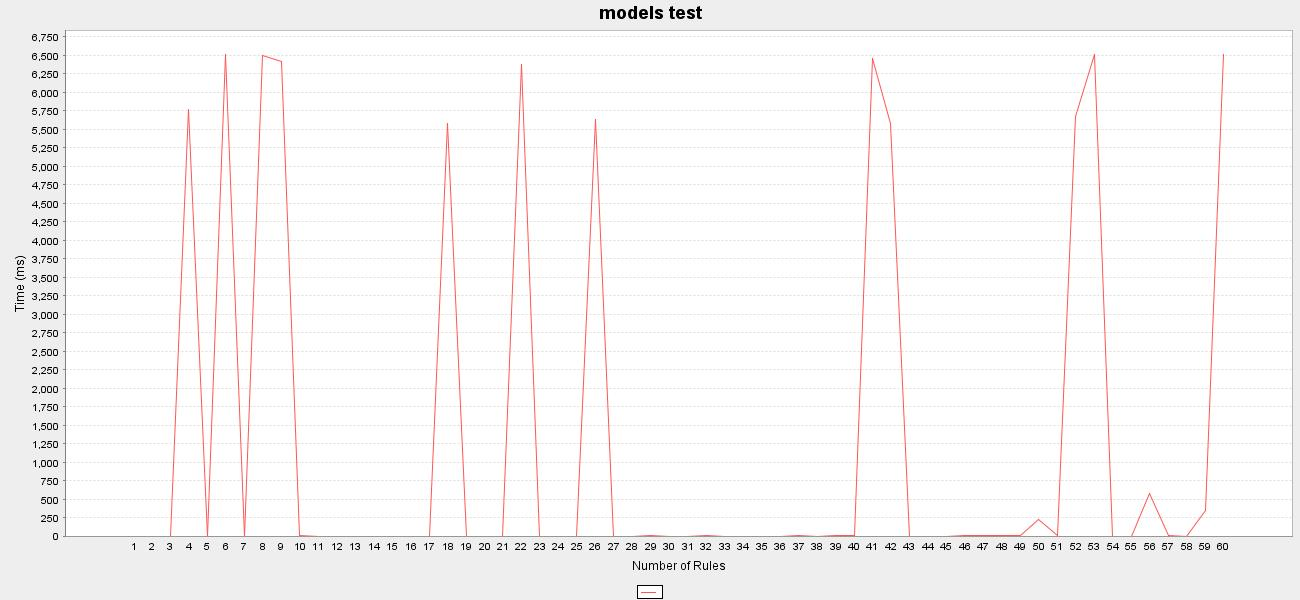
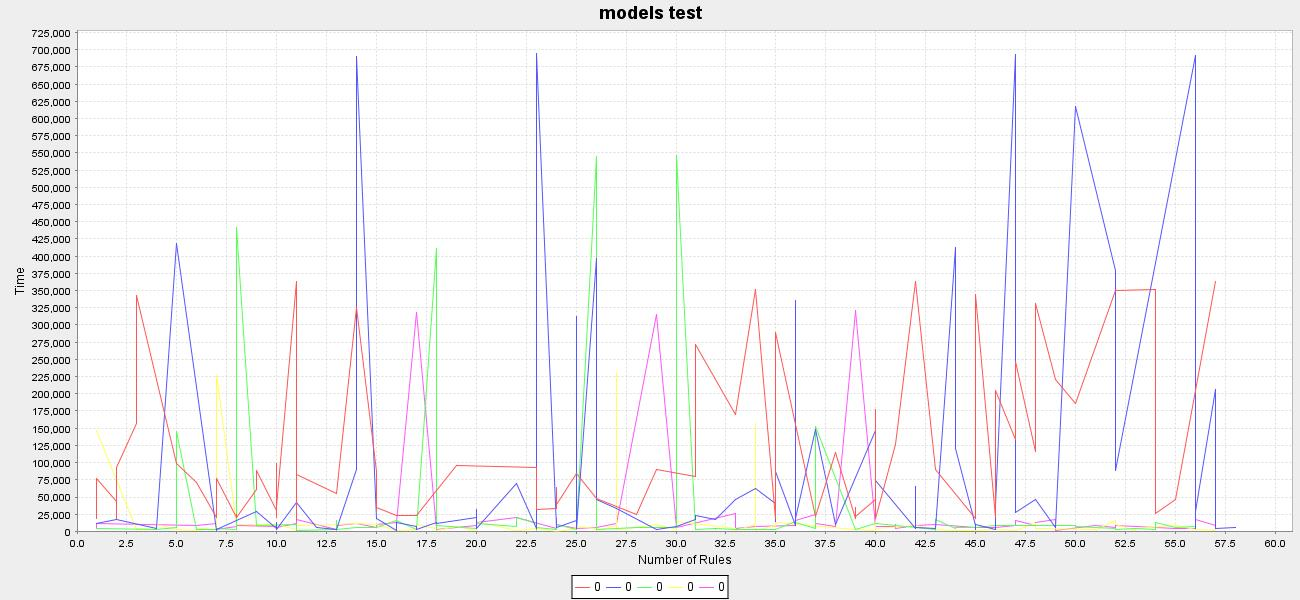
- vytvaranie grafu presunute do samostatnej triedy - zatial skusanych 5 iteracii generovania programov | zrejme bug pri firingu (niektore programy neskoncia vypocet)

diff --git a/src/main/NajmensiModel2.java b/src/main/NajmensiModel2.java
@@ -9,26 +9,14 @@ import core.Program;
 import utilities.ProgramGenerator;
 import utilities.ProgramParser;
 import core.Router;
-import java.awt.Color;
-import java.awt.Graphics2D;
-import java.awt.image.BufferedImage;
-import java.io.File;
-import java.io.IOException;
 import java.util.ArrayList;
-import java.util.Comparator;
 import java.util.List;
 import java.util.concurrent.ExecutorService;
 import java.util.concurrent.Executors;
 import java.util.concurrent.TimeUnit;
 import java.util.stream.Collectors;
-import java.util.stream.Stream;
-import javax.swing.JFrame;
 import messages.InitMessage;
-import org.jfree.chart.ChartFactory;
-import org.jfree.chart.ChartUtilities;
-import org.jfree.chart.JFreeChart;
-import org.jfree.chart.plot.PlotOrientation;
-import org.jfree.data.category.DefaultCategoryDataset;
+import utilities.GraphRenderer;
 
 /**
  *
@@ -36,81 +24,61 @@ import org.jfree.data.category.DefaultCategoryDataset;
  */
 public class NajmensiModel2 {
 
-    static Router router = new Router();
-
-    public static void createGraph(List<Long> xValues, List<Integer> yValues) throws IOException {
-        DefaultCategoryDataset dataset = new DefaultCategoryDataset();
-        for (int i = 0; i < xValues.size(); i++) {
-            System.out.println("[" + xValues.get(i) + ", " + yValues.get(i) + "]");
-            dataset.addValue(xValues.get(i), "", yValues.get(i));
-        }
-
-        JFreeChart lineChart = ChartFactory.createLineChart(
-                "models test",
-                "Number of Rules", "Time (ms)",
-                dataset,
-                PlotOrientation.VERTICAL,
-                true, true, false
-        );
-
-        int width = 1300;
-        /* Width of the image */
-        int height = 600;
-        /* Height of the image */
-        File chartFile = new File("LineChart.jpeg");
-        ChartUtilities.saveChartAsJPEG(chartFile, lineChart, width, height);
-    }
+    static Router router;
 
     /**
      * @param args the command line arguments
      */
     public static void main(String[] args) {
-        int programsCount = 500;
+        int programsCount = 80;
         String[] baseLits = "a,b,c,d,e,f".split(",");
         int maxBodySize = 10;
         int maxRulesCount = 60;
 
-        List<String> generated = ProgramGenerator.generate(programsCount, baseLits, maxRulesCount, maxBodySize);
-        List<Program> programs = new ArrayList<>();
+        GraphRenderer grenderer = new GraphRenderer();
+
+        for (int i = 0; i < 5; i++) {
+            router = new Router();
+            List<String> generated = ProgramGenerator.generate(programsCount, baseLits, maxRulesCount, maxBodySize);
+            List<Program> programs = new ArrayList<>();
 
 //        try (Stream<String> stream = Files.lines(Paths.get("rules1.txt"))) {
 //            programs = ProgramParser.parseStream(stream);
 //        } catch (IOException ex) {
 //            Logger.getLogger(NajmensiModel2.class.getName()).log(Level.SEVERE, null, ex);
 //        }
-        programs = ProgramParser.parseStream(generated.stream());
+            programs = ProgramParser.parseStream(generated.stream());
 
-        ExecutorService executor = Executors.newCachedThreadPool();
-        programs.stream().forEach((Program p) -> {
-            p.setRouter(router);
-            router.addProgram(p);
-            executor.execute(p);
-        });
+            ExecutorService executor = Executors.newCachedThreadPool();
+            programs.stream().forEach((Program p) -> {
+                p.setRouter(router);
+                router.addProgram(p);
+                executor.execute(p);
+            });
 
-        router.sendMessage(programs.get(0).getLabel(), new InitMessage());
-        executor.shutdown();
+            router.sendMessage(programs.get(0).getLabel(), new InitMessage());
+            executor.shutdown();
 
-        try {
-            executor.awaitTermination(Long.MAX_VALUE, TimeUnit.NANOSECONDS);
-        } catch (InterruptedException e) {
+            try {
+                executor.awaitTermination(Long.MAX_VALUE, TimeUnit.NANOSECONDS);
+            } catch (InterruptedException e) {
+            }
+
+            List<Long> time = programs.stream()
+                    .filter(p -> p.isParticipationConfirmed())
+                    .sorted((p1, p2) -> Integer.compare(p1.getRules().size(), p2.getRules().size()))
+                    .map(p -> (p.getEndTime() - p.getStartTime()) / 1000) // microseconds
+                    .collect(Collectors.toList());
+
+            List<Integer> rulesCount = programs.stream()
+                    .filter(p -> p.isParticipationConfirmed())
+                    .sorted((p1, p2) -> Integer.compare(p1.getRules().size(), p2.getRules().size()))
+                    .map(p -> p.getRules().size())
+                    .collect(Collectors.toList());
+
+            grenderer.addValues(rulesCount, time);
         }
-
-        List<Long> time = programs.stream()
-                .filter(p -> p.isParticipationConfirmed())
-                .sorted((p1, p2) -> Integer.compare(p1.getRules().size(), p2.getRules().size()))
-                .map(p -> p.getEndTime() - p.getStartTime())
-                .collect(Collectors.toList());
-
-        List<Integer> rulesCount = programs.stream()
-                .filter(p -> p.isParticipationConfirmed())
-                .sorted((p1, p2) -> Integer.compare(p1.getRules().size(), p2.getRules().size()))
-                .map(p -> p.getRules().size())
-                .collect(Collectors.toList());
-
-        try {
-            createGraph(time, rulesCount);
-        } catch (Exception e) {
-        }
+        grenderer.createGraph();
     }
 
 }

diff --git a/src/phases/PhaseTwo.java b/src/phases/PhaseTwo.java
@@ -11,8 +11,10 @@ import core.Rule;
 import java.util.ArrayList;
 import java.util.HashMap;
 import java.util.HashSet;
+import java.util.List;
 import java.util.Map;
 import java.util.Set;
+import java.util.stream.Collectors;
 import messages.FireRequestMessage;
 import messages.FireResponseMessage;
 import messages.FiringEndedMessage;
@@ -62,9 +64,10 @@ public class PhaseTwo implements Phase {
 
     private void processFiringEnded(Object message) {
         String sender = ((FiringEndedMessage) message).getSenderLabel();
+
         if (!participatedFiringEnded.get(sender)) {
             participatedFiringEnded.put(sender, Boolean.TRUE);
-
+            
             // test  ci skoncili vsetci
             if (!participatedFiringEnded.containsValue(Boolean.FALSE)) {
 //                TODO VYMYSLET INAK
@@ -77,11 +80,6 @@ public class PhaseTwo implements Phase {
         FireRequestMessage requestMessage = (FireRequestMessage) message;
         Set<Literal> obtainedLiterals = requestMessage.getLits();
         String sender = requestMessage.getSenderLabel();
-
-//        meranie casu pre testovacie ucely
-        if (sender.equals(program.getLabel())) {
-            program.setStartTime(System.currentTimeMillis());
-        }
         
         program.getSmallestModel().addAll(obtainedLiterals);
         fire(requestMessage);
@@ -98,7 +96,8 @@ public class PhaseTwo implements Phase {
 
 //        response som si poslal sam sebe
         if (senderLabel.equals(program.getLabel())) {
-            program.setEndTime(System.currentTimeMillis());
+//            program.setEndTime(System.currentTimeMillis());
+            program.setEndTime(System.nanoTime());
             
             sendMessage(program.getInitialProgramLabel(), new FiringEndedMessage(program.getLabel()));
         } else {

diff --git a/src/utilities/GraphRenderer.java b/src/utilities/GraphRenderer.java
@@ -1,0 +1,59 @@
+/*
+ * To change this license header, choose License Headers in Project Properties.
+ * To change this template file, choose Tools | Templates
+ * and open the template in the editor.
+ */
+package utilities;
+
+import java.io.File;
+import java.io.IOException;
+import java.util.List;
+import org.jfree.chart.ChartFactory;
+import org.jfree.chart.ChartUtilities;
+import org.jfree.chart.JFreeChart;
+import org.jfree.chart.plot.PlotOrientation;
+import org.jfree.chart.plot.XYPlot;
+import org.jfree.data.xy.XYSeries;
+import org.jfree.data.xy.XYSeriesCollection;
+
+/**
+ *
+ * @author martin
+ */
+public class GraphRenderer {
+
+    XYSeriesCollection dataset = new XYSeriesCollection();
+
+    public void addValues(List<Integer> xValues, List<Long> yValues) {
+        final XYSeries s = new XYSeries(0);
+        for (int i = 0; i < xValues.size(); i++) {
+//            System.out.println("[" + xValues.get(i) + ", " + yValues.get(i) + "]");
+//            dataset.addValue(xValues.get(i), "", yValues.get(i));
+            s.add(xValues.get(i), yValues.get(i));
+        }
+
+        dataset.addSeries(s);
+    }
+
+    public void createGraph() {
+        JFreeChart lineChart = ChartFactory.createXYLineChart(
+                "models test",
+                "Number of Rules", "Time",
+                dataset,
+                PlotOrientation.VERTICAL,
+                true, true, false
+        );
+
+        int width = 1300;
+        /* Width of the image */
+        int height = 600;
+        /* Height of the image */
+
+        try {
+            File chartFile = new File("LineChart.jpeg");
+            ChartUtilities.saveChartAsJPEG(chartFile, lineChart, width, height);
+        } catch (Exception e) {
+        }
+    }
+
+}

diff --git a/src/phases/PhaseOne.java b/src/phases/PhaseOne.java
@@ -61,6 +61,9 @@ public class PhaseOne implements Phase {
         String from = request.getSenderLabel();
         program.setInitialProgramLabel(request.getInitialSender());
 
+//        program.setStartTime(System.currentTimeMillis());
+        program.setStartTime(System.nanoTime());
+        
         request.getLits().forEach(lit -> {
             if (!program.getAskedLiterals().containsKey(lit)) {
                 program.getAskedLiterals().put(lit, new HashSet<>());

diff --git a/src/core/Program.java b/src/core/Program.java
@@ -102,7 +102,6 @@ public class Program implements Runnable {
     }
 
     private void processActivation() {
-        setStartTime(System.currentTimeMillis());
         phase = new PhaseTwo(this);
         router.sendMessage(label, new FireRequestMessage(generateMessageId(), label, new HashSet<>()));
     }
